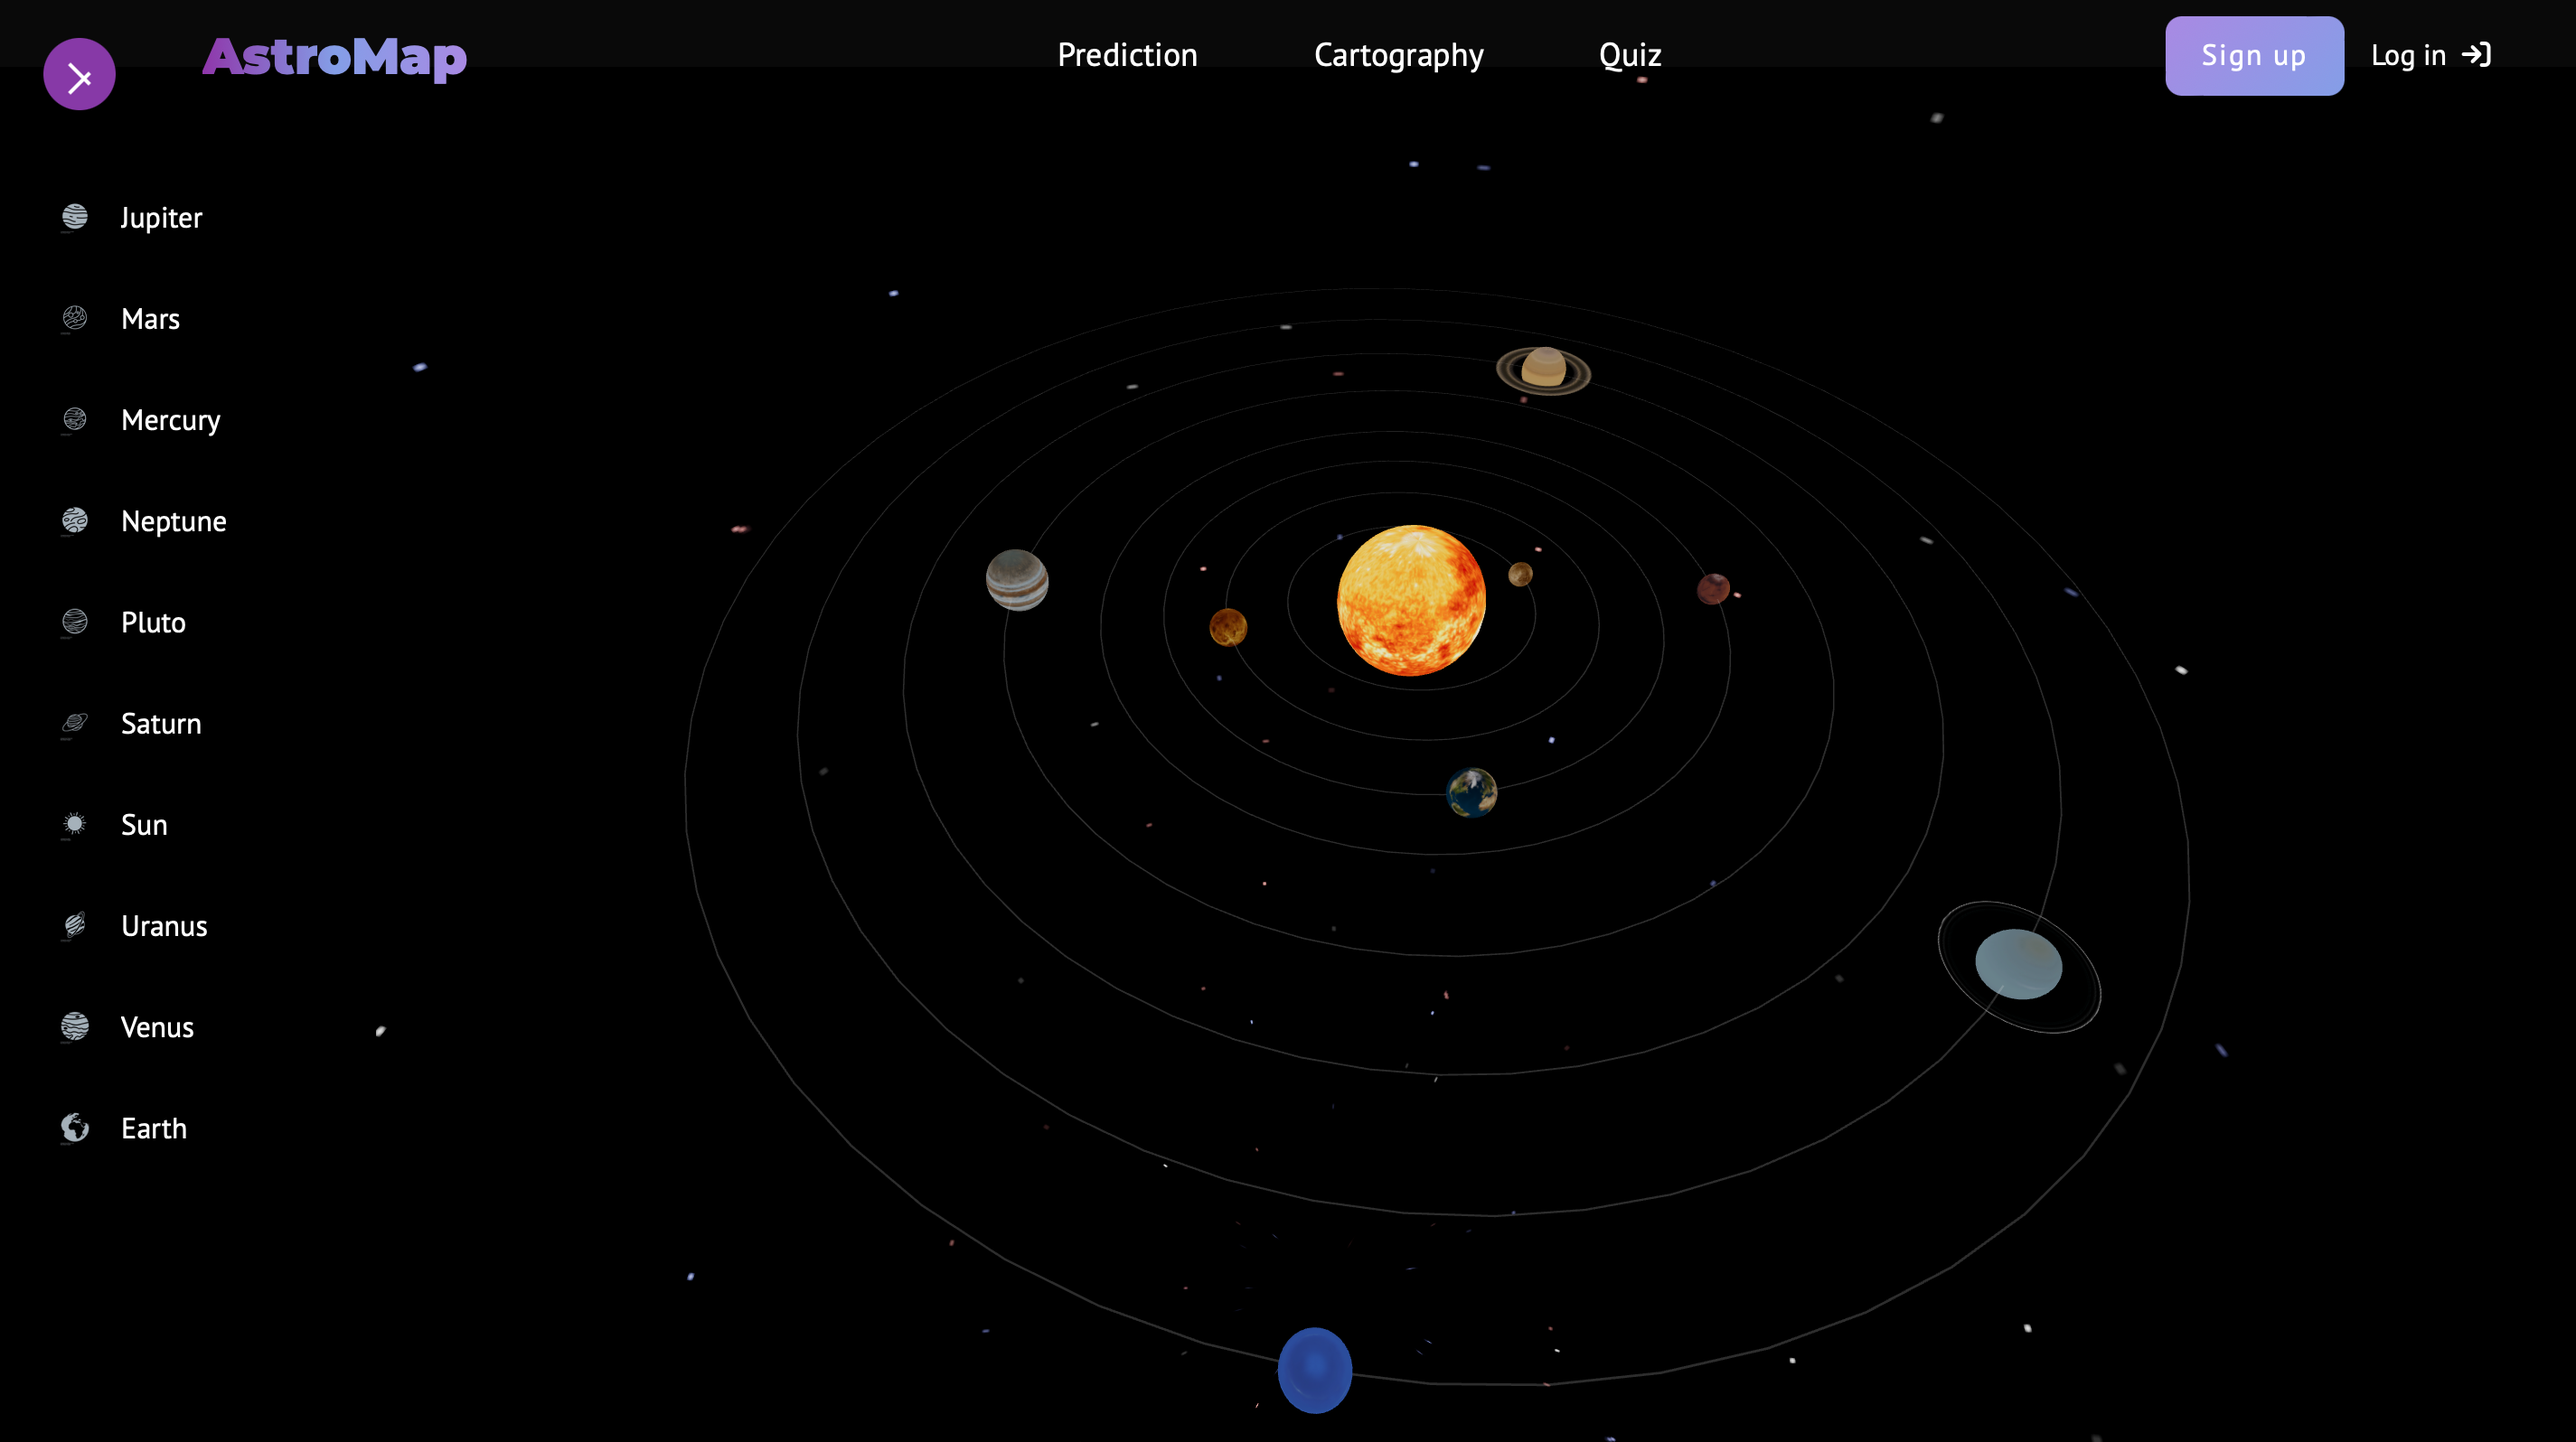
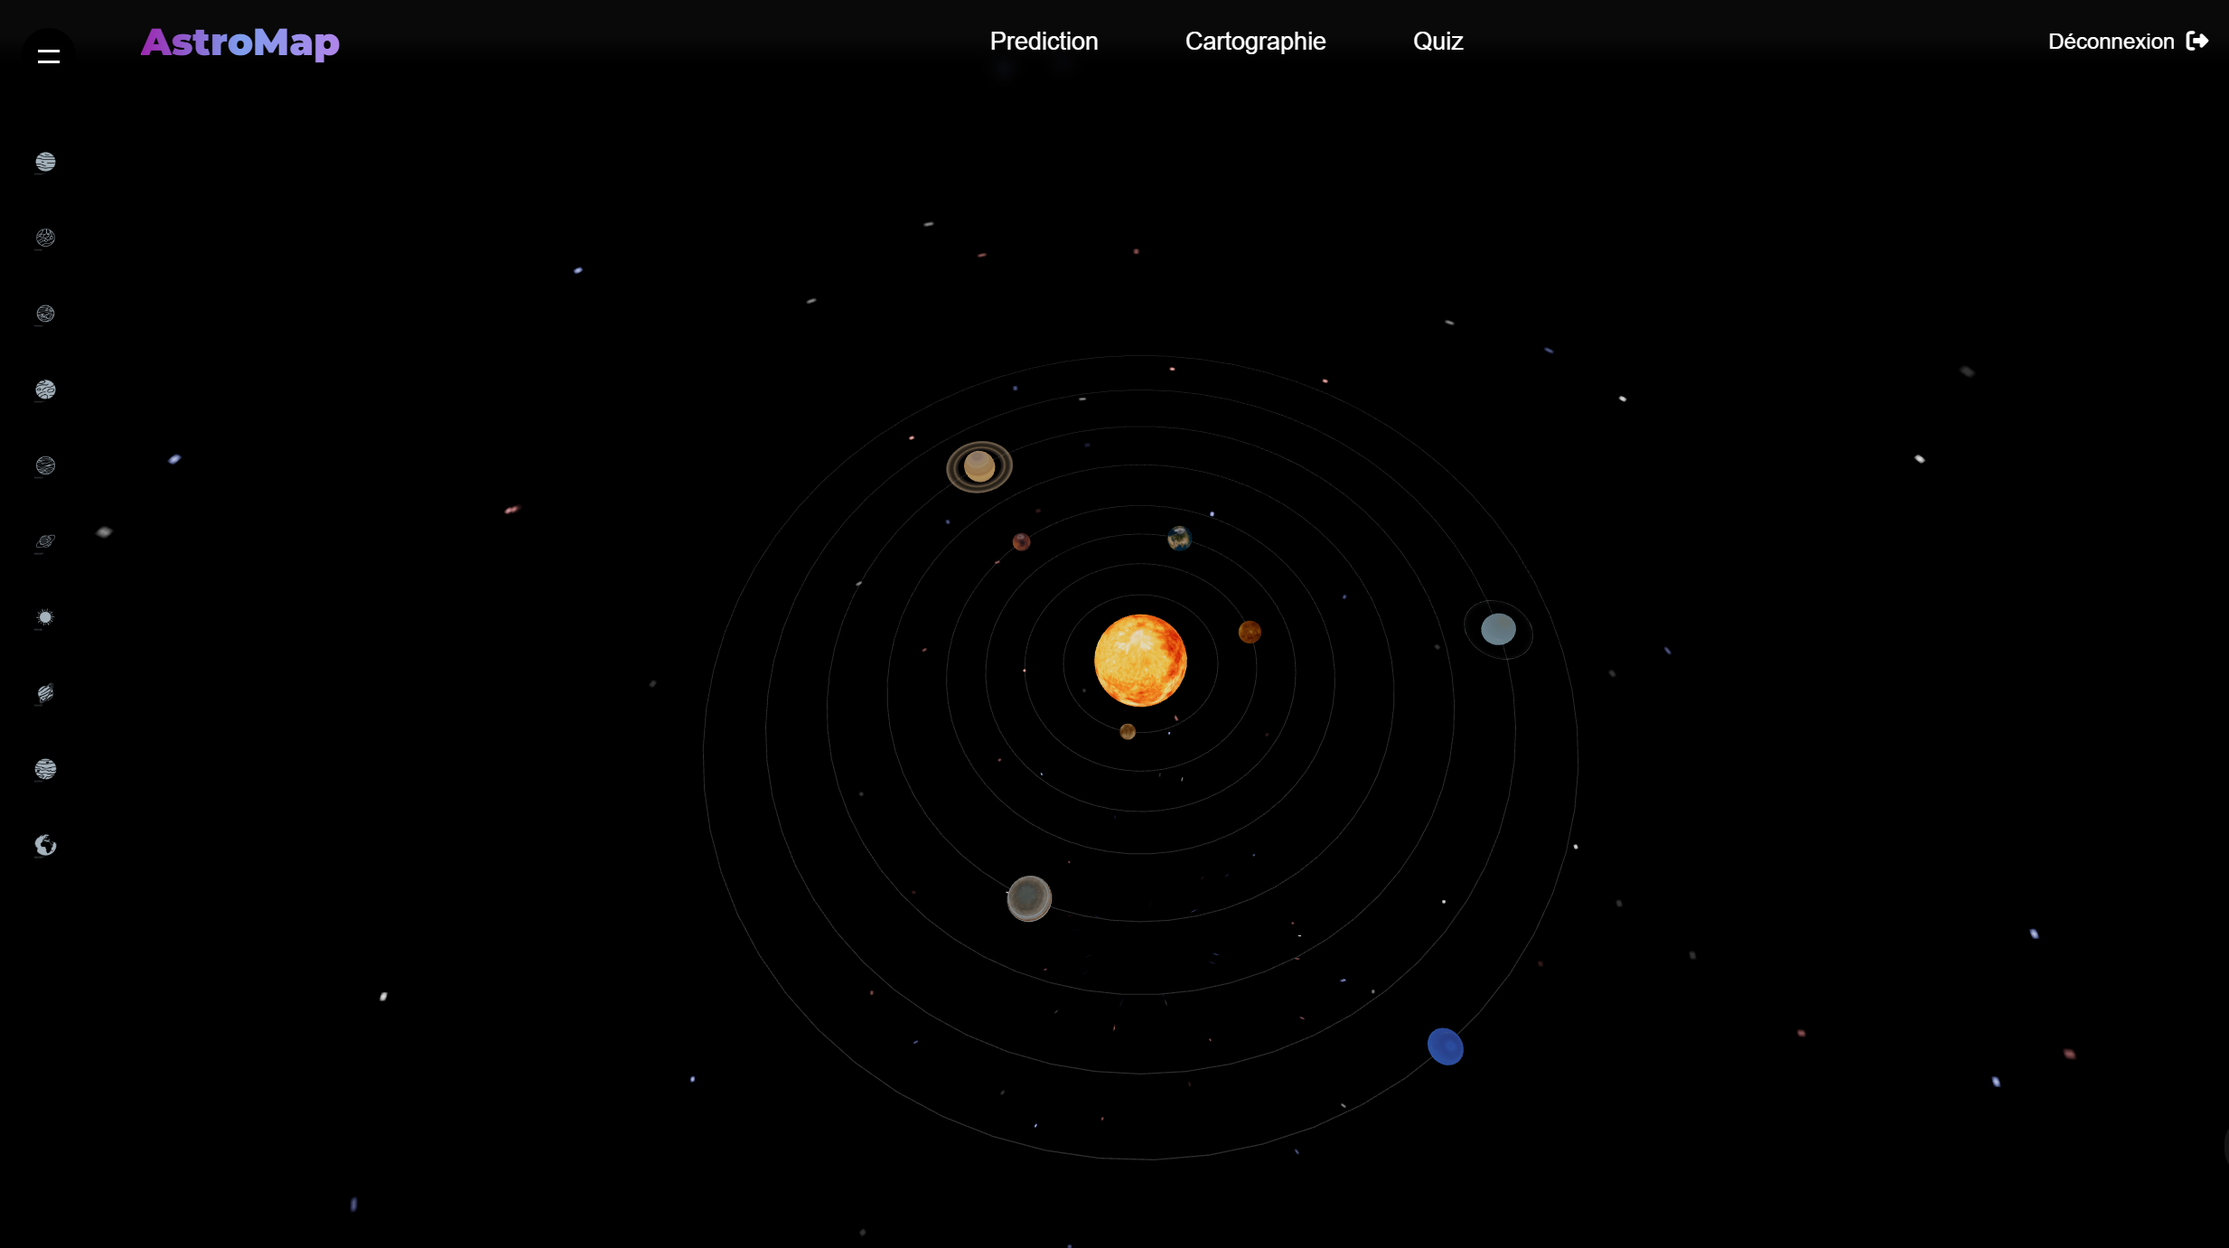
Update readme

diff --git a/frontend/src/Pages/Auth/LoginPage.jsx b/frontend/src/Pages/Auth/LoginPage.jsx
@@ -31,12 +31,12 @@ const LoginPage = () => {
   return (  
     <div className="login-page">  
       <div className="login-container">  
-        <h2 className="form-title">{isLogin ? "Log in with" : "Sign up with"}</h2>  
+        <h2 className="form-title">{isLogin ? "Se connecter  " : "S'inscrire "}</h2>  
 
         {/* ✅ Message de succès après inscription */}
         {isLogin && fromSignup && (
           <div className="success-message">
-            Registration successful! Please log in.
+            Inscription réussie! Veuillez se connecter.
           </div>
         )}
 
@@ -46,18 +46,18 @@ const LoginPage = () => {
           <form onSubmit={handleLogin} className="login-form">  
             <InputField   
               type="email"   
-              placeholder="Email address"   
+              placeholder=" Email"   
               value={email}  
               onChange={(e) => setEmail(e.target.value)}  
             />  
             <InputField   
               type="password"   
-              placeholder="Password"   
+              placeholder="mot-de-passe"   
               value={password}  
               onChange={(e) => setPassword(e.target.value)}  
             />  
              
-            <button type="submit" className="login-button">Log In</button>  
+            <button type="submit" className="login-button">Connexion</button>  
              
           </form>  
         ) : (  
@@ -67,13 +67,13 @@ const LoginPage = () => {
         <p className="signup-prompt">  
           {isLogin ? (  
             <>  
-              Don&apos;t have an account?{" "}  
-              <Link to="/signup" className="signup-link">Sign up</Link>  
+              Vous n'avez pas de compte?{" "}  
+              <Link to="/signup" className="signup-link">Inscription</Link>  
             </>  
           ) : (  
             <>  
-              Already have an account?{" "}  
-              <Link to="/login" className="signup-link">Log in</Link>  
+              Vous avez déjà un compte ?{" "}  
+              <Link to="/login" className="signup-link">Connexion</Link>  
             </>  
           )}  
         </p>  

diff --git a/frontend/src/Components/HeroSection.jsx b/frontend/src/Components/HeroSection.jsx
@@ -5,29 +5,31 @@ import './HeroSection.css';
 import { Link } from 'react-router-dom';
 
 function HeroSection() {
-  return (
-    <div className="hero-container">
-      <video className="video-background" autoPlay loop muted>
-        <source src="/videos/video1.mp4" type="video/mp4" />
-        Votre navigateur ne supporte pas la balise vidéo.
-      </video>
+return (
+  <div className="hero-container">
+    <video className="video-background" autoPlay loop muted>
+      <source src="/videos/video1.mp4" type="video/mp4" />
+      Votre navigateur ne supporte pas la balise vidéo.
+    </video>
 
-      <h2 className='gradient-text'>Explore</h2>
-      <h3 className='gradient-text2'>The magical space</h3>
-      <p style={{ fontSize: '1.3rem', color:'white', fontWeight: 'bold', fontFamily: 'Syncopate' }}>
-        Explore the secrets of space.
-      </p>
-      <p style={{ fontSize: '1.3rem', color:'white', fontWeight: 'bold', fontFamily: 'Syncopate' }}>
-        ASTROMAP helps you to check space galactics.
-      </p>
+    <h2 className='gradient-text'>Explorer</h2>
+    <h3 className='gradient-text2'>L'espace magique</h3>
 
-      <div className="hero-btns">
-        <Button buttonStyle="btn--outline" buttonSize="btn--large"> 
-          Discover how it works
-        </Button>
-      </div>
+    <p style={{ fontSize: '1.3rem', color: 'white', fontWeight: 'bold', fontFamily: 'Syncopate' }}>
+      Découvrez les secrets de l’univers.
+    </p>
+    <p style={{ fontSize: '1.3rem', color: 'white', fontWeight: 'bold', fontFamily: 'Syncopate' }}>
+      ASTROMAP vous aide à explorer les galaxies de l’espace.
+    </p>
+
+    <div className="hero-btns">
+      <Button buttonStyle="btn--outline" buttonSize="btn--large"> 
+        Découvrez comment ça fonctionne
+      </Button>
     </div>
-  );
+  </div>
+);
+
 }
 
 export default HeroSection;

diff --git a/frontend/src/Components/Footer/Footer.jsx b/frontend/src/Components/Footer/Footer.jsx
@@ -23,7 +23,7 @@ const Footer = () => {
           </p>
 
           <div className="footer-follow">
-            <p className="footer-follow-title">Follow us</p>
+            <p className="footer-follow-title">Suivez-nous</p>
             <div className="footer-social">
               <a href="#"><img src={linkedin} alt="LinkedIn" /></a>
               <a href="#"><img src={insta} alt="Instagram" /></a>
@@ -35,11 +35,11 @@ const Footer = () => {
 
         {/* Colonne droite : Quick Links */}
         <div className="footer-section right-section">
-          <h3 className="footer-title">Quik link</h3>
+          <h3 className="footer-title">Lien rapide</h3>
           <ul>
-  <li><Link to="/signup">Sign up</Link></li>
-  <li><Link to="/login">Log in</Link></li>
-  <li><Link to="/solarsystem">Cartography</Link></li>
+  <li><Link to="/signup">S’inscrire</Link></li>
+  <li><Link to="/login">Se connecter</Link></li>
+  <li><Link to="/solarsystem">Cartographie</Link></li>
   <li><Link to="/quiz">Quiz</Link></li>
 </ul>
 
@@ -48,7 +48,7 @@ const Footer = () => {
 
       <div className="footer-line"></div>
       <div className="footer-bottom">
-        <p>&copy; 2024 AstroMap. All rights reserved.</p>
+        <p>&copy; 2024 AstroMap. Tous droits réservés</p>
       </div>
     </footer>
   );

diff --git a/frontend/src/Components/Auth/SignUpForm.jsx b/frontend/src/Components/Auth/SignUpForm.jsx
@@ -42,30 +42,30 @@ const SignUpForm = () => {
      
       <InputField   
         type="text"   
-        placeholder="Full Name"   
+        placeholder="Nom complet"   
         value={nom}  
         onChange={(e) => setNom(e.target.value)}  
       />  
       <InputField   
         type="email"   
-        placeholder="Email address"   
+        placeholder="Email "   
         value={email}  
         onChange={(e) => setEmail(e.target.value)}  
       />  
       <InputField   
         type="password"   
-        placeholder="Password"   
+        placeholder="Mot-de-passe"   
         value={password}  
         onChange={(e) => setPassword(e.target.value)}  
       />  
       <InputField   
         type="password"   
-        placeholder="Confirm Password"   
+        placeholder="Confirmer Mot-de-passe"   
         value={confirmPassword}  
         onChange={(e) => setConfirmPassword(e.target.value)}  
       />  
         
-      <button type="submit" className="signup-button">Sign Up</button>  
+      <button type="submit" className="signup-button">Inscription</button>  
        
     </form>  
   );  

diff --git a/frontend/src/Components/Header/Header.jsx b/frontend/src/Components/Header/Header.jsx
@@ -61,7 +61,7 @@ const Header = () => {
               
               </li>
               <li className="nav-item">
-                 <Link className="nav-link" to="/solarsystem" >Cartography</Link>
+                 <Link className="nav-link" to="/solarsystem" >Cartographie</Link>
               </li>
               <li className="nav-item">
                  <Link className="nav-link" to="/quiz">Quiz</Link>
@@ -77,9 +77,9 @@ const Header = () => {
                </a>  
                ) : (  
               <>  
-               <a href="/signup" className="btn-custom">Sign up</a>  
+               <a href="/signup" className="btn-custom">S’inscrire</a>  
                <Link to="/login" className="login-link">  
-                  Log in <i className="fa-solid fa-arrow-right-to-bracket ms-1"></i>  
+                  Se connecter <i className="fa-solid fa-arrow-right-to-bracket ms-1"></i>  
                  </Link>  
                </>  
                )}  

diff --git a/README.md b/README.md
@@ -18,7 +18,7 @@ AstroMap est une plateforme éducative et interactive dédiée à l'exploration 
 ## 🖼 Aperçu des interfaces
 
 ### Page d'accueil
-![Homepage principale](interfaces/homepage-1.png)
+![Homepage principale](interfaces/homepage.png)
 
 ### Suite de la page d'accueil (prédiction en temps réel de ces événements)
 ![Homepage suite](interfaces/homepage-prediction.png)
